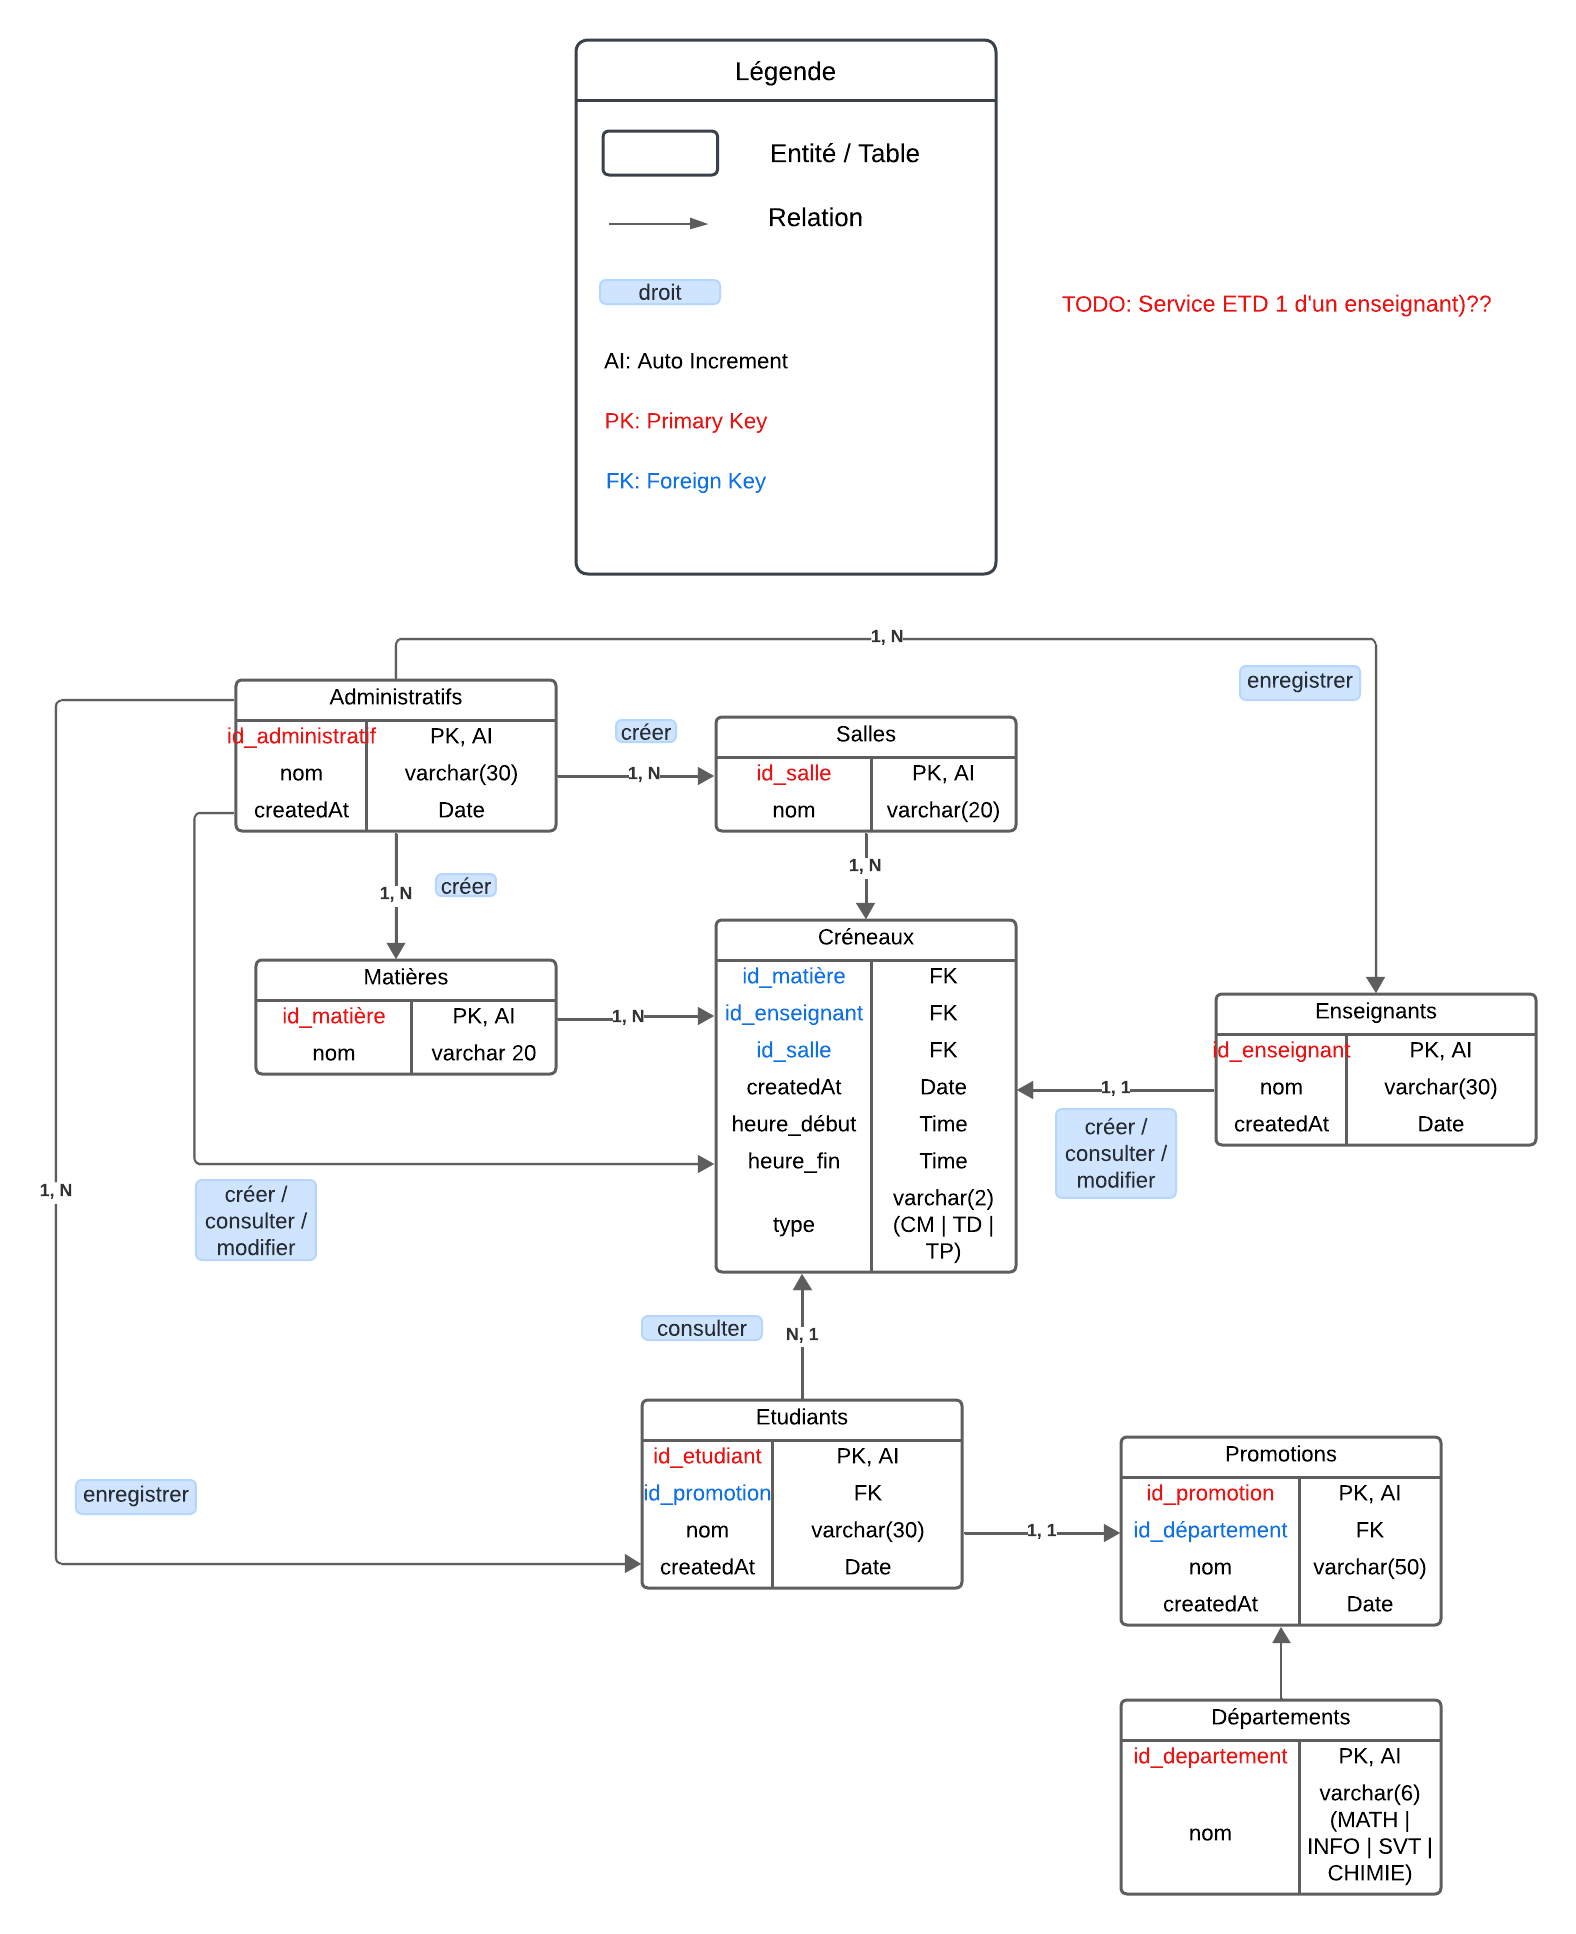
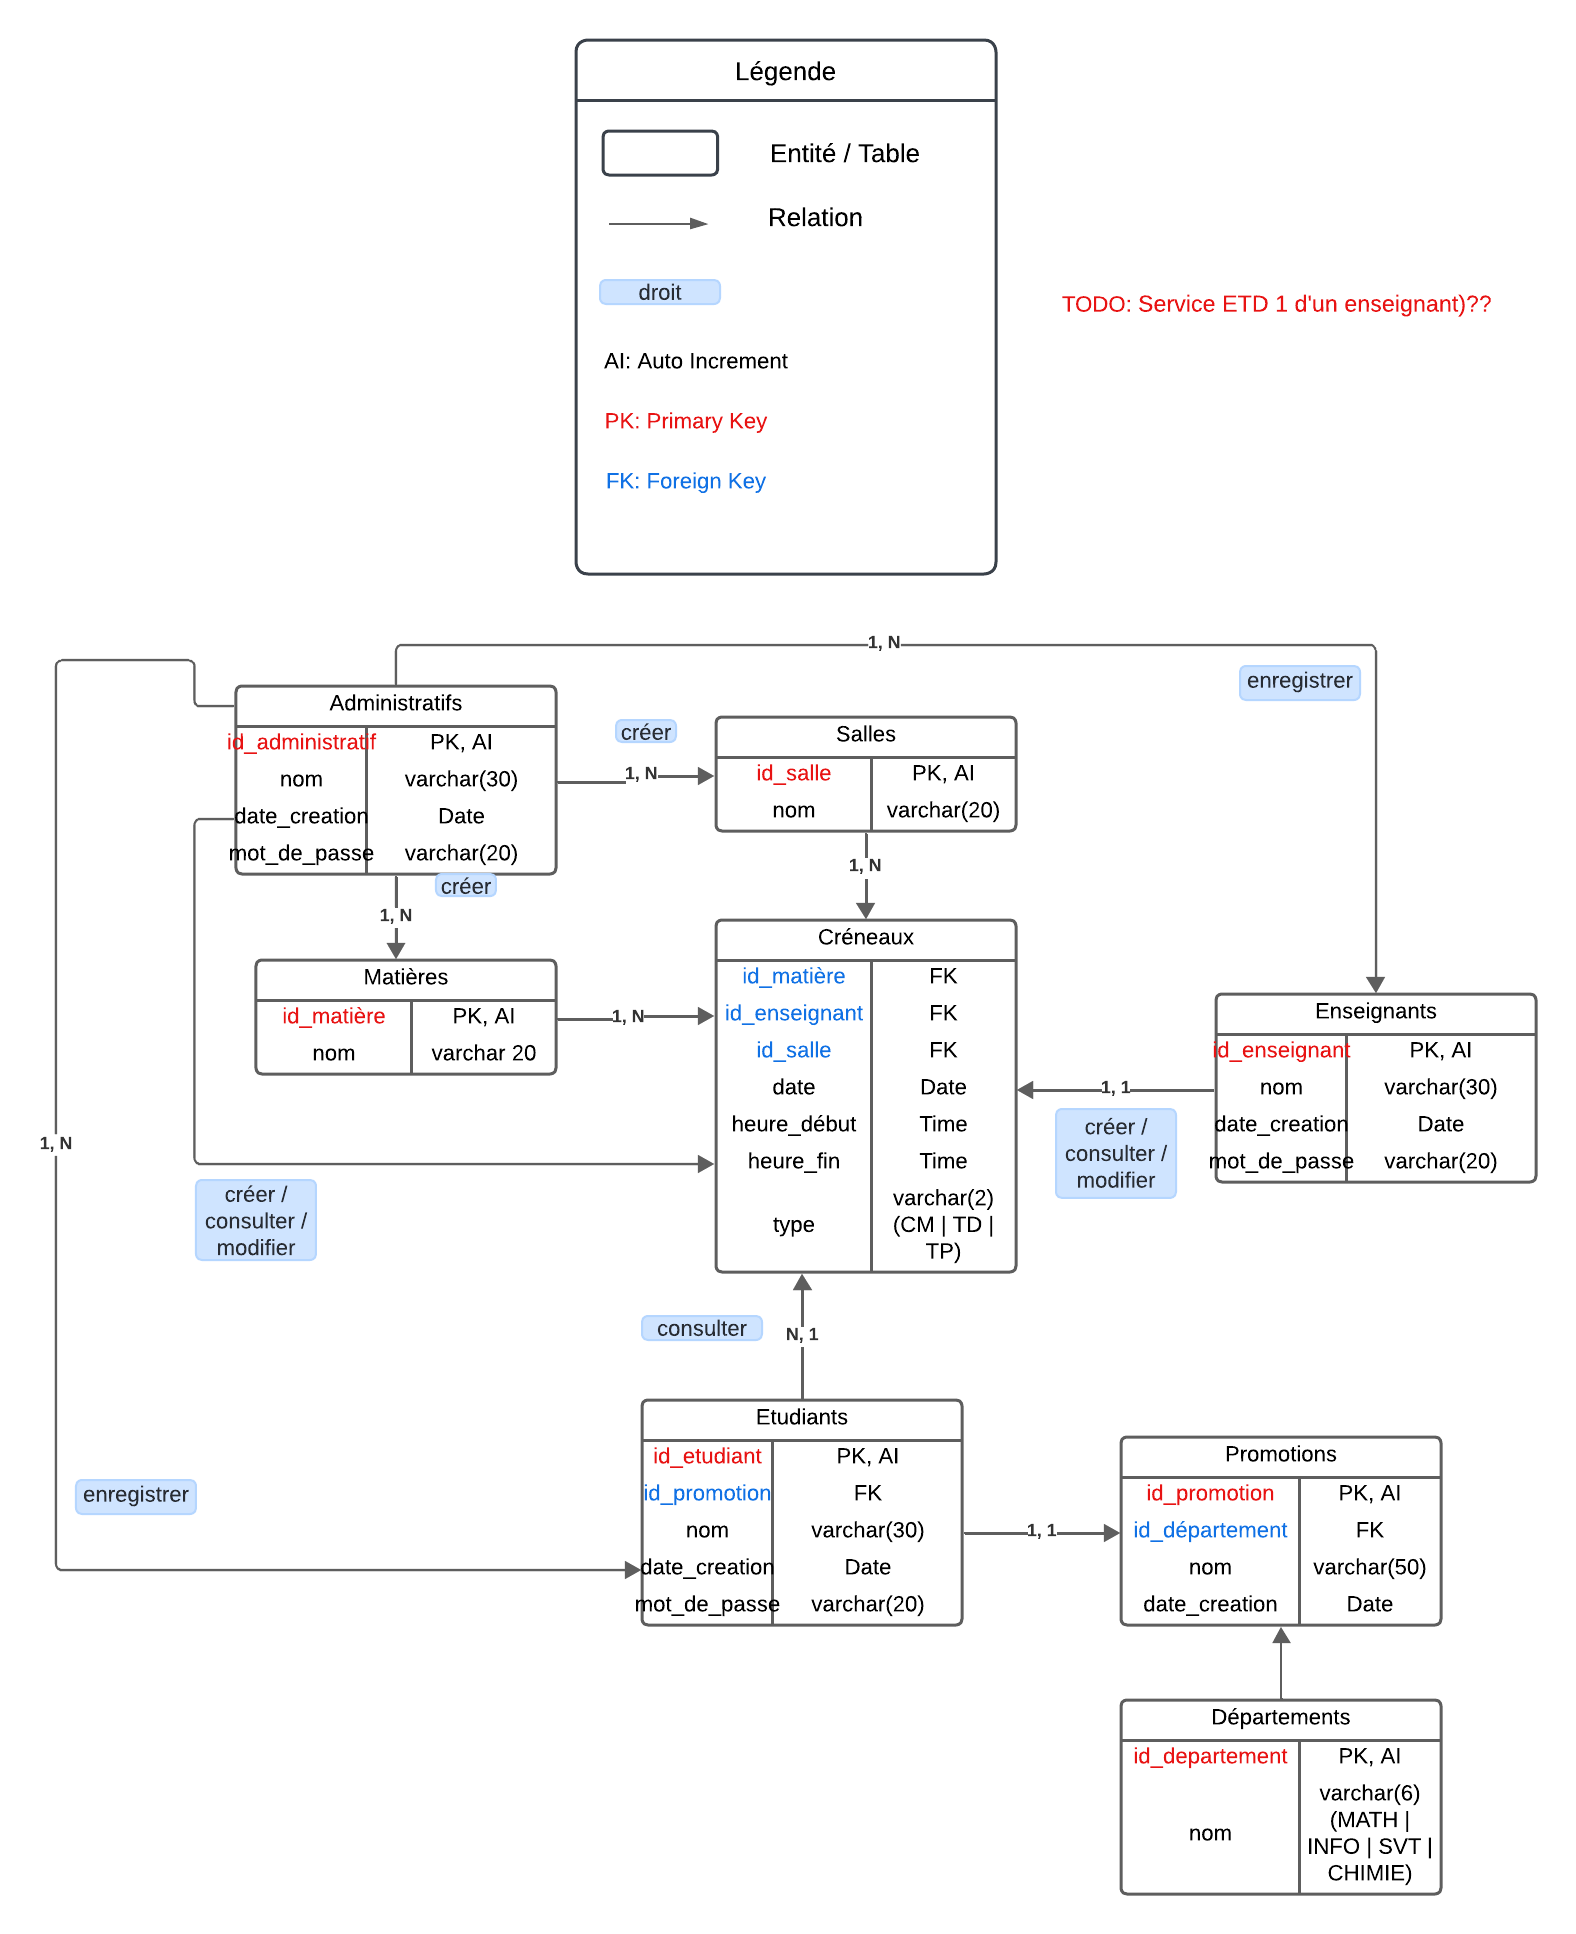
Modify DB schema to add unique constraint, insert admins, handle login logic and update README.md

diff --git a/src/html/LoginPage.html b/src/html/LoginPage.html
@@ -4,34 +4,21 @@
     <meta charset="UTF-8" />
     <meta name="viewport" content="width=device-width, initial-scale=1.0" />
     <title>Connexion</title>
-    <!-- Bootstrap CSS -->
-    <!-- <link
-      rel="stylesheet"
-      href="https://stackpath.bootstrapcdn.com/bootstrap/4.5.2/css/bootstrap.min.css"
-    /> -->
-    <!-- Custom CSS -->
     <link rel="stylesheet" href="../style/loginPageStyle.css" />
   </head>
   <body>
     <div class="container">
-      <form action=" " class="login-form">
+      <form action="../server/login.php" method="post" class="login-form">
         <h1>Connexion</h1>
         <div class="input-box">
-          <!-- <label for="username">Nom d'utilisateur: </label> -->
-          <input type="text" id="username" placeholder="Nom d'utilisateur" />
+          <input type="text" id="nom" name="nom" placeholder="Nom d'utilisateur" />
         </div>
         <div class="input-box">
-          <!-- <label for="password">Mot de passe: </label> -->
-          <input type="password" id="password" placeholder="mot de passe" />
+          <input type="password" id="mot_de_passe" name="mot_de_passe" placeholder="Mot de passe" />
         </div>
 
         <button type="submit">Login</button>
       </form>
     </div>
-
-    <!-- jQuery -->
-    <script src="https://ajax.googleapis.com/ajax/libs/jquery/3.5.1/jquery.min.js"></script>
-    <!-- Custom JavaScript -->
-    <!-- <script src="script.js"></script> -->
   </body>
 </html>

diff --git a/src/server/login.php b/src/server/login.php
@@ -1,0 +1,43 @@
+<?php
+session_start();
+require_once "./database.php";
+
+
+if ($_SERVER['REQUEST_METHOD'] === 'POST' 
+    && isset($_POST['nom']) && !empty($_POST['nom']) 
+    && isset($_POST['mot_de_passe']) && !empty($_POST['mot_de_passe'])) {
+    $stmt = $db->prepare("SELECT * FROM administratifs WHERE nom = :nom");
+
+    $nom = trim(htmlspecialchars($_POST['nom']));
+    $mot_de_passe = trim(htmlspecialchars($_POST['mot_de_passe']));
+
+    $stmt->bindParam(':nom', $nom);
+
+    echo "Before exec <br>";
+    echo "nom --> $nom <br>";
+    echo "mot_de_passe --> $mot_de_passe";
+
+    $result = $stmt->execute();
+
+    if (!$result) {
+        echo "<p>Erreur lors de l'exécution de la requête préparée!</p>";
+        exit;
+    }
+
+    $user = $result->fetchArray(SQLITE3_ASSOC);
+
+    if ($user && password_verify($mot_de_passe, $user['mot_de_passe'])) {
+        $_SESSION['nom'] = $nom;
+        $_SESSION['mot_de_passe'] = $mot_de_passe;
+        $db->close();
+        header("Location: home.php");
+        exit;
+    } else {
+        echo "<p>Identifiants incorrects!</p>";
+        $db->close();
+    }
+} else {
+    header("Location: ../html/LoginPage.html");
+    exit;
+}
+?>

diff --git a/src/server/create_admins.php b/src/server/create_admins.php
@@ -1,0 +1,29 @@
+<?php
+require_once "./database.php";
+
+$sql = 'INSERT INTO administratifs(nom, mot_de_passe, date_creation) VALUES (:nom, :mot_de_passe, :date_creation)';
+$stmt = $db->prepare($sql);
+
+$users = [
+    ["nom" => "John Dupont", "mot_de_passe" => "jd24*", "date_creation" => date("Y-m-d")],
+    ["nom" => "Alice Smith", "mot_de_passe" => "as23!", "date_creation" => date("Y-m-d")],
+    ["nom" => "Bob Johnson", "mot_de_passe" => "bj45#", "date_creation" => date("Y-m-d")]
+];
+
+foreach ($users as $user) {
+    $stmt->bindParam(':nom', $user['nom']);
+    $hashed_password = password_hash($user['mot_de_passe'], PASSWORD_DEFAULT);
+    $stmt->bindParam(':mot_de_passe', $hashed_password);
+    $stmt->bindParam(':date_creation', $user['date_creation']);
+
+    $result = $stmt->execute();
+
+    if (!$result) {
+        echo "Error inserting record for user: " . $user['nom'] . ": " . $db->lastErrorMsg() . "<br>";
+    } else {
+        echo "Record inserted successfully for user: " . $user['nom'] . "<br>";
+    }
+}
+
+$db->close();
+?>

diff --git a/src/server/home.php b/src/server/home.php
@@ -1,0 +1,15 @@
+<?php
+session_start();
+?>
+
+<!DOCTYPE html>
+<html lang="fr">
+<head>
+    <meta charset="UTF-8">
+    <meta name="viewport" content="width=device-width, initial-scale=1.0">
+    <title>Accueil</title>
+</head>
+<body>
+    <h1>Bienvenue sur jpp,  <?php echo $_SESSION['nom']; ?> </h1>
+</body>
+</html>

diff --git a/src/server/database.php b/src/server/database.php
@@ -1,0 +1,9 @@
+<?php
+error_reporting(E_ALL);
+$databaseFile = "../sqlite/planning.db";
+
+$db = new SQLite3($databaseFile);
+
+if (!$db) {
+    die("Connection failed: " . $db->lastErrorMsg());
+}

diff --git a/README.md b/README.md
@@ -15,11 +15,13 @@ Zend Engine v4.1.2, Copyright (c) Zend Technologies
 ```
 
 ```bash
-$ ls
-doc  index.html  README.md  src
-$ cd src/sql
-/src/sql$ ls
-emploi_temps.db  schema.sql  select_from_all_tables.sql
+# To be enable writing on sqlite database file, with it's parent folders, they should have the necessary permission
+$ chmod 775 jpp
+/jpp$ chmod 775 src
+/jpp/src$ chmod 777 sqlite
+/jpp/src/sqlite$ chmod 777 planning.db
+
+# sudo chown -R john src # To recursively set john as owner of src folder
 ```
 
 ```bash
@@ -39,11 +41,11 @@ crenaux         enseignants     matieres        salles
 ```bash
 # One of the interesting outputs format is tabular one (box, markdown, table) 
 # ex.: To display administratifs table content in box format:
-sqlite> .mode table
+sqlite> .mode box
 sqlite> select * from administratifs;
 
 # Other interesting way to achieve things properly is reading from files
-.read select_from_all_tables.sql # current tables are empty!
+.read select_from_all_tables.sql
 
 sqlite> .help # for more features
 ```
